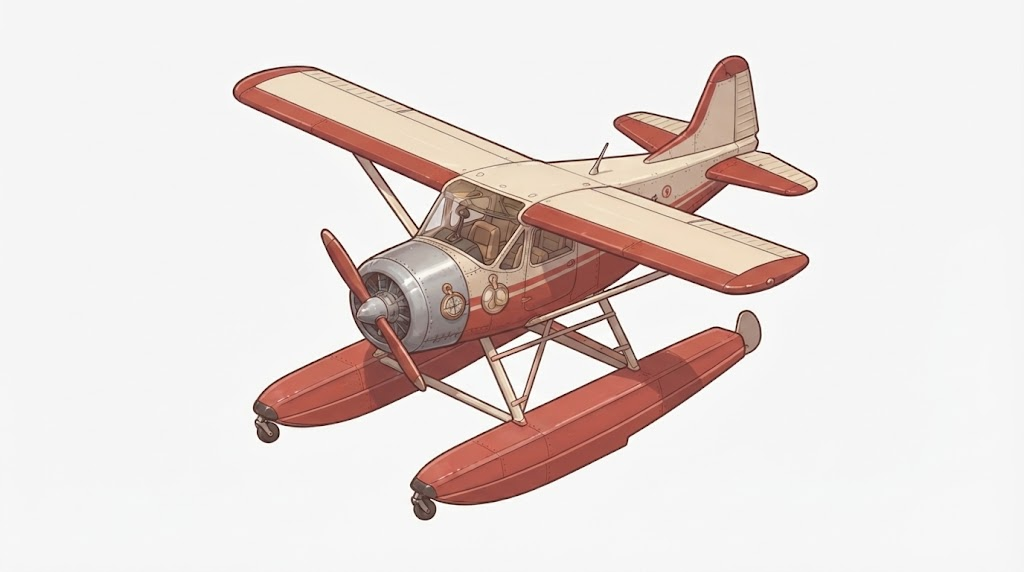
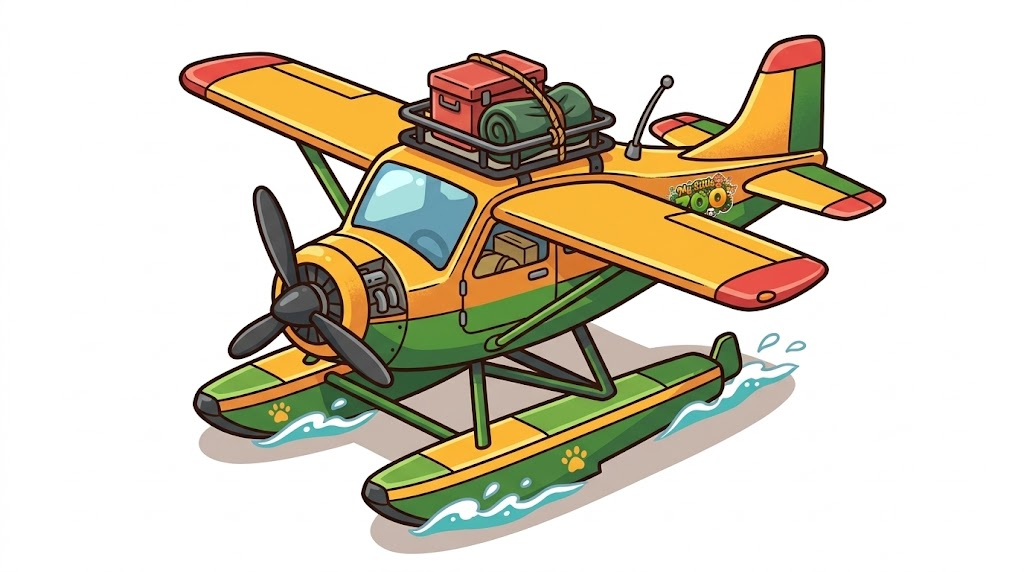
Zooauto, Zoo-Boot und neues Wasserflugzeug; Aktionsknopf am PC; Feinschliff an Animationen
- Neues Zooauto mit Anhänger ersetzt alle Autos (Schnellreise), neues Boot im Riff (Seil am Bug), neues Wasserflugzeug;
  Quellen in Sprites/ freigestellt, warm-grauer Bodenschatten entfernt
- Aktionsknopf auch am PC (Taste E, pulsiert bei neuer Möglichkeit)
- Orang-Utan2 frisst: herunterfallendes Stück abgeschnitten (clipBelow), größer; Pfau nach vorne kleiner;
  Wasserbüffel läuft schneller; Krokodile laufen auch nach oben mit der Ansicht von vorne
- Zebras trinken im Gehege nur noch mit Wasser in Reichweite (nicht im Sand)
- Sitzbilder des Japanmakaken nach Sprites/ (Tiersprites Test ist nicht im Repo)

diff --git a/tools/prepare-characters.js b/tools/prepare-characters.js
@@ -716,14 +716,15 @@ const ANIMATIONS = [
   { src: 'Animation/Tiger2_läuft_hinten.mp4', out: 'tiger2_walk_back.png', scale: 0.989, frameW: 120, frameH: 104, feetY: 99 },
   { src: 'Animation/Tiger2_idle_vorne.mp4', out: 'tiger2_idle.png', scale: 0.1978, frameW: 120, frameH: 104, feetY: 99 },
   { src: 'Animation/Tiger2_idle_hinten.mp4', out: 'tiger2_idle_back.png', scale: 0.989, frameW: 120, frameH: 104, feetY: 99 },
-  { src: 'Animation/Pfau_läuft_vorne.mp4', out: 'peacock_walk.png', scale: 0.93, frameW: 96, frameH: 96, feetY: 92 },
+  // nach vorne etwas kleiner (89 %), sonst größer als der stehende Pfau
+  { src: 'Animation/Pfau_läuft_vorne.mp4', out: 'peacock_walk.png', scale: 0.83, frameW: 96, frameH: 96, feetY: 92 },
   // von hinten: ein Ausschnitt, der sauber im Kreis läuft
   { src: 'Animation/Pfau_läuft_hinten.mp4', out: 'peacock_walk_back.png', range: [23, 95], scale: 0.93, frameW: 96, frameH: 96, feetY: 92 },
   { src: 'Animation/Pfau2_läuft_vorne.mp4', out: 'peacock2_walk.png', scale: 0.93, frameW: 96, frameH: 96, feetY: 92 },
   // Japanmakak sitzt (Einzelbilder, für das Stehen): im Original 1,39-mal so groß gemalt wie der stehende (Gesicht),
   // daher so verkleinert, dass er zum Laufen passt (sitzend ca. 60 hoch); von hinten schaut er nach links: gespiegelt
-  { src: 'Tiersprites Test/Japanmakak_sitzt_vorne.png', out: 'macaque_sit.png', cols: 1, rows: 1, scale: 0.388, frameW: 72, frameH: 72, feetY: 68 },
-  { src: 'Tiersprites Test/Japanmakak_sitzt_hinten.png', out: 'macaque_sit_back.png', cols: 1, rows: 1, mirror: 'all', scale: 0.388, frameW: 72, frameH: 72, feetY: 68 },
+  { src: 'Sprites/Japanmakak_sitzt_vorne.png', out: 'macaque_sit.png', cols: 1, rows: 1, scale: 0.388, frameW: 72, frameH: 72, feetY: 68 },
+  { src: 'Sprites/Japanmakak_sitzt_hinten.png', out: 'macaque_sit_back.png', cols: 1, rows: 1, mirror: 'all', scale: 0.388, frameW: 72, frameH: 72, feetY: 68 },
   { src: 'Animation/Japanmakak_läuft_vorne.mp4', out: 'macaque_walk.png', range: [3, 32], scale: 0.653, frameW: 72, frameH: 72, feetY: 68 },
   // von hinten: ab Bild 38 dreht er sich im Video um (dann von vorne); Bilder 8-31 laufen nahtlos im Kreis.
   // 10 % größer als vorne, sonst wirkt er von hinten kleiner (gleiche Fläche wie von vorne)
@@ -750,10 +751,20 @@ const ANIMATIONS = [
   { src: 'Animation/Orangutan_winkt.mp4', out: 'orangutan_wave.png', range: [14, 94], saturate: 1.05, brightness: 1.14, scale: 0.891, offsetX: -9, frameW: 112, frameH: 96, feetY: 92 },
   { src: 'Animation/Urangutan2_läuft_vorne.mp4', out: 'orangutan2_walk.png', scale: 0.2233, frameW: 96, frameH: 96, feetY: 92 },
   { src: 'Animation/Oranutan2_läuft_hinten.mp4', out: 'orangutan2_walk_back.png', scale: 0.99, frameW: 96, frameH: 96, feetY: 92 },
-  { src: 'Animation/Orangutan2_idle_vorne.mp4', out: 'orangutan2_idle.png', scale: 0.176, frameW: 96, frameH: 96, feetY: 92 },
+  // ab Bild 28 fällt ihm etwas aus der Hand bis weit unter die Füße: unterhalb der Füße (Zeile 490) abgeschnitten
+  { src: 'Animation/Orangutan2_idle_vorne.mp4', out: 'orangutan2_idle.png', clipBelow: 490, scale: 0.2024, frameW: 96, frameH: 96, feetY: 92 },
   { src: 'Animation/Orangutan2_winken.mp4', out: 'orangutan2_wave.png', range: [8, 55], scale: 0.792, offsetX: -4, frameW: 112, frameH: 96, feetY: 92 },
-  // Wasserflugzeug (Schnellreise im Dschungel), ein Bild
-  { src: 'Sprites/Wasserflugzeug.png', out: 'seaplane.png', cols: 1, rows: 1, frameW: 240, frameH: 140, feetY: 136, figureH: 128 },
+  // Zooauto mit Anhänger (Schnellreise, in allen Gebieten): ein Bild, Fahrtrichtung unten-links wie bisher Bild 0/1 der
+  // alten Autos, so hoch wie diese. Quelle freigestellt mit npm run cutout, danach der warm-graue Bodenschatten
+  // (ca. 199,183,172) in der unteren Hälfte entfernt
+  { src: 'Sprites/Zooauto.png', out: 'car_zoo.png', cols: 1, rows: 1, frameW: 240, frameH: 140, feetY: 136, figureH: 131 },
+  // Zoo-Boot (Schnellreise im Riff), ersetzt das Pixel-Boot boat.png aus make-sprites. Höher als dieses (Kabine, Kran),
+  // daher Rahmen 240x160; der Rumpf liegt unten so weit über dem Ankerpunkt wie bisher (25 von 160 wie 21 von 140 ...).
+  // Quelle freigestellt mit npm run cutout -- Sprites/Boot.jpg Sprites/Boot.png 840,110 775,180 895,180 780,90 777,91
+  // 750,105 765,105 720,120 756,120 724,150 885,150 913,184 901,195 809,77 (Lücken am Kran), dann Bodenschatten entfernt
+  { src: 'Sprites/Boot.png', out: 'boat_zoo.png', cols: 1, rows: 1, frameW: 240, frameH: 160, feetY: 130, figureH: 127 },
+  // Wasserflugzeug (Schnellreise im Dschungel), ein Bild; neue Fassung im Zoo-Stil (Quelle freigestellt, Schatten entfernt)
+  { src: 'Sprites/Wasserflugzeug neu.png', out: 'seaplane.png', cols: 1, rows: 1, frameW: 240, frameH: 140, feetY: 136, figureH: 128 },
 ];
 
 // skip: Bilder weglassen (Nummern im Raster); mirror: Bilder, die in die andere Richtung schauen, waagerecht spiegeln ('all': alle);
@@ -765,8 +776,9 @@ const ANIMATIONS = [
 // degreen: Grünstich und Grashalme weg (Zebra trinkt); steady: Flimmern dämpfen (siehe steadyFrames); alignFeet: Füße jedes Bilds auf die Fußlinie (siehe prepareGrid).
 // Statt eines Spritesheets geht auch ein Video (.mp4) vor Greenscreen: dann ohne cols/rows, jedes Videobild ist ein Bild (siehe readVideo);
 // range: [von, bis] nur diese Bilder (z. B. ein Ausschnitt eines Videos, der sauber im Kreis läuft);
-// stabilize: Wackeln der Kamera ausgleichen (siehe stabilizeFrames); brightness: Helligkeit mal diesen Faktor
-function loadGrid({ src, cols, rows, count, range, skip = [], mirror = [], dropGreen = false, saturate = 1, brightness = 1, evenBrightness = false, steady = false, degreen = false, stabilize = false }) {
+// stabilize: Wackeln der Kamera ausgleichen (siehe stabilizeFrames); brightness: Helligkeit mal diesen Faktor;
+// clipBelow: alles unterhalb dieser Zeile (in der Zelle) weg, z. B. was der Figur herunterfällt und unter ihren Füßen landet
+function loadGrid({ src, cols, rows, count, range, skip = [], mirror = [], dropGreen = false, saturate = 1, brightness = 1, evenBrightness = false, steady = false, degreen = false, stabilize = false, clipBelow }) {
   const video = /\.(mp4|mov|webm)$/i.test(src);
   const img = video ? readVideo(src) : PNG.sync.read(fs.readFileSync(path.resolve(src)));
   if (video) [cols, rows] = [img.frames, 1];
@@ -785,6 +797,9 @@ function loadGrid({ src, cols, rows, count, range, skip = [], mirror = [], dropG
       const mx = Math.max(data[k], data[k + 1], data[k + 2]);
       for (let c = 0; c < 3; c++) data[k + c] = Math.max(0, Math.min(255, Math.round(mx - (mx - data[k + c]) * saturate)));
     }
+  }
+  if (clipBelow !== undefined) {
+    for (let k = 0; k < data.length; k += 4) if (Math.floor(k / 4 / W) % ch > clipBelow) data[k + 3] = 0;
   }
   if (brightness !== 1) {
     for (let k = 0; k < data.length; k += 4) for (let c = 0; c < 3; c++) data[k + c] = Math.min(255, Math.round(data[k + c] * brightness));

diff --git a/src/world/levels.js b/src/world/levels.js
@@ -101,7 +101,7 @@ export const LEVELS = {
   meadow: {
     name: tr('Wiese', 'Meadow'),
     // Schnellreise: Auto (Kachel, Bild, Größe) und Lage auf der Weltkarte (in Prozent)
-    car: { tx: 12.16, ty: 26.48, texture: 'car_park', frame: 0, scale: 1.26 },
+    car: { tx: 12.16, ty: 26.48, texture: 'car_zoo', frame: 0, scale: 1.26 },
     map: { x: 51.5, y: 34, icon: 'sheep' },
     rows: [
       'TTbbTTTTbbTTTTTTbTTTTTTTTbTTTTTbTTTTTbTT',
@@ -167,7 +167,7 @@ export const LEVELS = {
   forest: {
     name: tr('Wald', 'Forest'),
     // Schnellreise: Auto (Kachel, Bild) und Lage auf der Weltkarte (in Prozent)
-    car: { tx: 24.16, ty: 16.24, texture: 'car_forest', frame: 1, scale: 1.1 },
+    car: { tx: 24.16, ty: 16.24, texture: 'car_zoo', frame: 0, scale: 1.1 },
     map: { x: 53, y: 16, icon: 'stag' },
     rows: [
       'PPPPPPPPPPPPPPPPPPPPPPPPPPPPPPPPPPPPPPPP',
@@ -231,7 +231,7 @@ export const LEVELS = {
   savanna: {
     name: tr('Savanne', 'Savanna'),
     // Schnellreise: Auto (Kachel, Bild) und Lage auf der Weltkarte (in Prozent)
-    car: { tx: 12.16, ty: 25.32, texture: 'car_savanna', frame: 0, scale: 1.15 },
+    car: { tx: 12.16, ty: 25.32, texture: 'car_zoo', frame: 0, scale: 1.15 },
     map: { x: 58, y: 63, icon: 'giraffe' },
     rows: SAVANNA_ROWS,
     grass: ['sgrass0', 'sgrass1', 'sgrass2'],
@@ -288,7 +288,7 @@ export const LEVELS = {
   asia: {
     name: tr('Bambuswald', 'Bamboo Forest'),
     // Schnellreise: Auto (Kachel, Bild) und Lage auf der Weltkarte (in Prozent)
-    car: { tx: 13.16, ty: 41.54, texture: 'car_asia', frame: 1, scale: 1.3 },
+    car: { tx: 13.16, ty: 41.54, texture: 'car_zoo', frame: 0, scale: 1.3 },
     map: { x: 78, y: 37, icon: 'koi' },
     rows: [
       'JQQJQQJQQJQQJQQJQQJQQJQQJQQJQQJQQJQQJQQk',
@@ -581,7 +581,7 @@ export const LEVELS = {
   reef: {
     name: tr('Riff', 'Reef'),
     // Schnellreise: ein kleines Boot, das über dem Meeresboden schwimmt (float: so hoch, in Pixeln)
-    car: { tx: 18.16, ty: 14.5, texture: 'boat', frame: 0, scale: 1.5, float: 30 },
+    car: { tx: 18.16, ty: 14.5, texture: 'boat_zoo', frame: 0, scale: 1.5, float: 30 },
     map: { x: 89, y: 66, icon: 'reeffish' }, // Great Barrier Reef vor Australien (Clownfisch)
     rows: [
 'ÖÖÖÖÖÖÖÖÖÖÖÖÖÖÖÖÖÖÖÖÖÖÖÖÖÖÖÖÖÖÖÖÖÖÖÖÖÖ',
@@ -850,7 +850,7 @@ LEVELS.park = parkSection('park', {
   name: tr('Tierpark', 'Zoo'),
   part: { name: tr('Zentrum', 'Center'), icon: 'hero' }, // Feld im Tierpark-Schild der Weltkarte
   // Schnellreise: Auto (Kachel, Bild) und Lage auf der Weltkarte (in Prozent)
-  car: { tx: 34, ty: 44, texture: 'car_park', frame: 1, scale: 1.26 },
+  car: { tx: 34, ty: 44, texture: 'car_zoo', frame: 0, scale: 1.26 },
   map: { x: 20, y: 33, icon: 'hero' }, // der Tierpark ist das Zuhause der Spielfigur (in Nordamerika, dort ist Platz für das große Schild)
   start: { tx: 29, ty: 40 }, // Spielstart: auf dem Vorplatz vor dem Haupthaus
   // Randstreifen: Boden der Welt, deren Gehege dort stehen (Zäune, Füller und Zwischenräume)
@@ -891,7 +891,7 @@ LEVELS.park2 = parkSection('park2', {
   name: tr('Tierpark: Savanne & Aquarium', 'Zoo: Savanna & Aquarium'),
   background: '#b89a52', // Farbe außerhalb der Karte (trockenes Gras)
   part: { name: tr('Savanne & Aquarium', 'Savanna & Aquarium'), icon: 'giraffe' },
-  car: { tx: 37.16, ty: 19.32, texture: 'car_park', frame: 0, scale: 1.26 },
+  car: { tx: 37.16, ty: 19.32, texture: 'car_zoo', frame: 0, scale: 1.26 },
   start: { tx: 32, ty: 22 },
   grounds: [
     { area: { tx0: 8, tx1: 16, ty0: 0, ty1: 18 }, ground: ['grass0', 'grass1', 'grass2'] }, // Wiese ums Aquarium (vor der Savanne, die erste Fläche gilt)
@@ -920,7 +920,7 @@ LEVELS.park3 = parkSection('park3', {
   ],
   name: tr('Tierpark: Bambuswald & Dschungel', 'Zoo: Bamboo Forest & Jungle'),
   part: { name: tr('Bambuswald & Dschungel', 'Bamboo Forest & Jungle'), icon: 'panda' },
-  car: { tx: 38.16, ty: 78.32, texture: 'car_park', frame: 0, scale: 1.26 },
+  car: { tx: 38.16, ty: 78.32, texture: 'car_zoo', frame: 0, scale: 1.26 },
   start: { tx: 38, ty: 60 },
   grounds: [
     { area: { tx0: 60, tx1: 95, ty0: 59, ty1: 82 }, ground: ['jgrass0', 'jgrass1', 'jgrass2'] }, // Dschungel-Bereich (rechts neben Asien)

diff --git a/src/scenes/BootScene.js b/src/scenes/BootScene.js
@@ -318,8 +318,8 @@ export default class BootScene extends Phaser.Scene {
     for (const [k, count] of [['walk', 14], ['walk_back', 26], ['idle', 20], ['idle_back', 21]]) {
       this.load.spritesheet(`ride_savanna_${k}`, `assets/ride_savanna_${k}.png`, { frameWidth: 160, frameHeight: 230, endFrame: count - 1 });
     }
-    for (const k of ['car_park', 'car_forest', 'car_savanna', 'car_asia']) this.load.spritesheet(k, `assets/${k}.png`, CAR_FRAME); // Schnellreise
-    this.load.spritesheet('boat', 'assets/boat.png', CAR_FRAME); // Schnellreise in der Unterwasserwelt
+    this.load.spritesheet('car_zoo', 'assets/car_zoo.png', CAR_FRAME); // Zooauto (Schnellreise, in allen Gebieten)
+    this.load.spritesheet('boat_zoo', 'assets/boat_zoo.png', { frameWidth: 240, frameHeight: 160 }); // Zoo-Boot (Schnellreise in der Unterwasserwelt)
     this.load.spritesheet('seaplane', 'assets/seaplane.png', CAR_FRAME); // Schnellreise im Dschungel (Wasserflugzeug)
     // Kanu (Dschungel): leer und mit Henrik darin, je 4 Ansichten
     for (const k of ['canoe', 'canoe_hero']) this.load.spritesheet(k, `assets/${k}.png`, { frameWidth: 144, frameHeight: 152 });
@@ -517,6 +517,8 @@ export default class BootScene extends Phaser.Scene {
     const SAVANNA_RATE = { giraffe_walk: 7, giraffe_walk_back: 7, vulture_flap: 7, vulture_flap_back: 7 };
     for (const [key, [, , , feetY]] of Object.entries(SAVANNA_ANIMS)) if (feetY) this.textures.get(key).customData.feetY = feetY;
     for (const key of Object.keys(SAVANNA_ANIMS)) this.anims.create({ key, frames: this.anims.generateFrameNumbers(key), frameRate: SAVANNA_RATE[key] ?? (key.includes('_walk') || key.includes('_flap') ? 12 : 10), repeat: -1 });
-    for (const key of Object.keys(VIDEO_ANIMS)) this.anims.create({ key, frames: this.anims.generateFrameNumbers(key), frameRate: 24, repeat: -1, yoyo: key.includes('_idle') });
+    // schneller als im Video: der Wasserbüffel läuft sonst zu gemächlich für das Reittier-Tempo
+    const VIDEO_RATE = { ride_asia_walk: 31, ride_asia_walk_back: 31 };
+    for (const key of Object.keys(VIDEO_ANIMS)) this.anims.create({ key, frames: this.anims.generateFrameNumbers(key), frameRate: VIDEO_RATE[key] ?? 24, repeat: -1, yoyo: key.includes('_idle') });
   }
 }

diff --git a/src/animals/Zebra.js b/src/animals/Zebra.js
@@ -13,7 +13,9 @@ const WALK_TIMEOUT = 30; // wer bis dahin nicht am Wasser ist, gibt auf
 const WALK_SPEED = 1.5; // zum Wasser etwas zügiger als beim Grasen
 const SPOTS = 8; // Uferplätze rund um die gewählte Stelle
 const PEN_DRINK_EVERY = [15, 30]; // im Gehege: Sekunden zwischen zwei Gängen zum Wasserloch
-const PEN_CLOSE = 28; // so nah am Uferplatz darf es auch hängen bleiben und trotzdem trinken
+const PEN_CLOSE = 28; // so nah am Uferplatz darf es auch hängen bleiben und trotzdem trinken ...
+const PEN_WATER_REACH = 46; // ... aber nur, wenn das Wasser so nah ist (Abstand zur Mitte der Wasserkachel, etwa eine Kachel)
+const PEN_GIVE_UP = 2; // so lange hängt es fest, ohne trinken zu können, dann versucht es es später an anderer Stelle
 // Maul beim Trinken (gesenkter Kopf), von den Füßen aus gemessen, beim Blick nach rechts (zebra_drinking, halbe Größe)
 const DRINK_MOUTH = { front: [10.7, -2.7], back: [11.5, -8.2] };
 const DRINK_REACH = 0.55; // dorthin soll das Maul: Anteil des Wegs vom Zebra zur Mitte der Wasserkachel
@@ -107,11 +109,18 @@ export default class Zebra extends Antelope {
       return super.updateFree(dt, player);
     }
     if (this.drinking) return false;
+    if (t.stuck > PEN_GIVE_UP) {
+      this.penDrink = null;
+      this.penDrinkAt = now + Phaser.Math.FloatBetween(...PEN_DRINK_EVERY);
+      return super.updateFree(dt, player);
+    }
     const dx = t.spot.x - this.x;
     const dy = t.spot.y - this.y;
     const d = Math.hypot(dx, dy);
-    // angekommen – oder kurz vor dem Ufer hängen geblieben: dann trinkt es eben von dort
-    if (d < 3 || (t.stuck > 0.5 && d < PEN_CLOSE)) {
+    // angekommen – oder kurz vor dem Ufer hängen geblieben: dann trinkt es eben von dort, aber nur mit dem Wasser
+    // in Reichweite (sonst trinkt es im Sand); hängt es weiter weg fest, gibt es auf
+    const nearWater = Math.hypot(t.spot.wx - this.x, (t.spot.wy - this.y) * 2) < PEN_WATER_REACH;
+    if (d < 3 || (t.stuck > 0.5 && d < PEN_CLOSE && nearWater)) {
       this.drinking = true;
       this.faceX = Math.sign(t.spot.wx - this.x) || this.faceX;
       this.faceY = Math.sign(t.spot.wy - this.y) || this.faceY;

diff --git a/index.html b/index.html
@@ -322,6 +322,22 @@
       }
       body.touch #btn-action.pressed { transform: translateY(4px); box-shadow: 0 1px 0 #2b1d14; }
       body.touch #btn-action.empty { opacity: 0.35; }
+      /* am PC derselbe runde Bildhinweis, etwas kleiner und mit der Taste E darauf (auch mit der Maus anklickbar); ohne Aktion weg */
+      body:not(.touch) #btn-action:not(.empty) {
+        display: block; position: fixed; right: 20px; bottom: 20px; width: 84px; height: 84px; border-radius: 50%; cursor: pointer;
+        background: rgba(60, 40, 20, 0.75) center / 70% no-repeat; border: 3px solid #fff8e6;
+        box-shadow: 0 4px 0 #2b1d14;
+      }
+      body:not(.touch) #btn-action::after {
+        content: "E"; position: absolute; right: -6px; bottom: -6px; padding: 1px 7px;
+        font: bold 16px/1.2 "Trebuchet MS", Arial, sans-serif; color: #2b1d14; background: #fff8e6; border-radius: 6px;
+        box-shadow: 0 2px 0 #2b1d14;
+      }
+      body:not(.touch) #sign { right: 120px; } /* Wegweiser-Tafel links neben dem Knopf */
+      body:not(.touch) #btn-action.pressed { transform: translateY(3px); box-shadow: 0 1px 0 #2b1d14; }
+      /* etwas zum Anfassen in der Nähe (Auto, Regal, Orang-Utan …): Knopf pulsiert kurz auf */
+      #btn-action.hint { animation: action-hint 0.5s ease-out 2; }
+      @keyframes action-hint { 50% { scale: 1.15; } }
       /* Werkzeug wechseln, solange man reitet (Reittier-Event) */
       #btn-swap { display: none; }
       body.touch.riding #btn-swap {

diff --git a/src/animals/Animal.js b/src/animals/Animal.js
@@ -144,8 +144,9 @@ export const SPECIES = {
   // Krokodil (Savanne): taucht wie der Fisch in Wasserlöchern auf; nur mit dem Lasso (siehe Crocodile.js)
   crocodile: {
     texture: 'croc', // an Land (gefangen); im Wasser "croc_water"
-    anims: { walkDown: 'croc_walk', walkUp: 'croc_walk_back', idleDown: 'croc_idle', idleUp: 'croc_idle_back' }, // Savanne
-    skinAnims: { croc_albino: { walkDown: 'croc_albino_walk', walkUp: 'croc_albino_walk_back', idleDown: 'croc_albino_idle', idleUp: 'croc_albino_idle_back' } },
+    // Savanne; Laufen auch nach oben mit der Animation von vorne
+    anims: { walkDown: 'croc_walk', walkUp: 'croc_walk', idleDown: 'croc_idle', idleUp: 'croc_idle_back' },
+    skinAnims: { croc_albino: { walkDown: 'croc_albino_walk', walkUp: 'croc_albino_walk', idleDown: 'croc_albino_idle', idleUp: 'croc_albino_idle_back' } },
     frames: { downRight: 0, downLeft: 1, upRight: 2, upLeft: 3 },
     originY: 88 / 92,
     speed: 12, // gemütliches Schwimmen im Krokodilteich

diff --git a/src/ui/touch.js b/src/ui/touch.js
@@ -136,11 +136,19 @@ export function isTouch() {
   return document.body.classList.contains('touch');
 }
 
-// Aktionsknopf zeigt das getragene Werkzeug (oder ist ausgegraut)
+// Aktionsknopf zeigt das getragene Werkzeug (oder ist ausgegraut; am PC dann ausgeblendet)
 // id: Werkzeug (Bild assets/<id>.png); image: anderes Bild, z. B. die Weltkarte am Auto
 export function setTouchTool(id, image) {
   if (!ui) return;
   const src = image ?? (id ? `assets/${id}.png` : null);
+  const bg = src ? `url("${src}")` : '';
+  if (ui.action.style.backgroundImage === bg) return;
   ui.action.classList.toggle('empty', !src);
-  ui.action.style.backgroundImage = src ? `url(${src})` : '';
+  ui.action.style.backgroundImage = bg;
+  // neue Möglichkeit ohne Werkzeug (Auto, Regal, Winken …): kurz aufpulsieren, damit man sie bemerkt
+  ui.action.classList.remove('hint');
+  if (src && !id) {
+    void ui.action.offsetWidth; // Animation neu starten
+    ui.action.classList.add('hint');
+  }
 }

diff --git a/src/scenes/GardenScene.js b/src/scenes/GardenScene.js
@@ -301,7 +301,7 @@ const TANK_WATER_UP = 112; // Höhe der Wasseroberfläche (knapp unter der Oberk
 // obere Ecke der Grundfläche im Dachbild, falls nicht wie bei den Hütten (siehe officeRoofAnchor in tools/make-sprites.js)
 const ROOF_ANCHOR = { office: [283, 90] }; // Glasdach: auch von außen halb durchsichtig, damit man die Katzen sieht
 const BOAT_BOB = 3; // so weit schaukelt das Boot in der Unterwasserwelt auf und ab (Pixel)
-const BOAT_ROPE = [-24, -27]; // dort am Boot (links hinten, Welt-Pixel vom Ankerpunkt des Bilds, mal Größe) hängt das Ankerseil
+const BOAT_ROPE = [-40, -30]; // dort am Boot (vorne am Bug, Welt-Pixel vom Ankerpunkt des Bilds, mal Größe) hängt das Ankerseil
 const ANCHOR_RING = [19, -18]; // ... und dort am Anker (vom Ankerpunkt des Bilds "anchor_sack")
 const SEA_TINT = [0x1a7ad0, 0.24]; // blaue Tönung über allem unter Wasser
 const SEA_BUBBLES = 260; // alle so viele Millisekunden steigt irgendwo im Bild ein Bläschen auf
